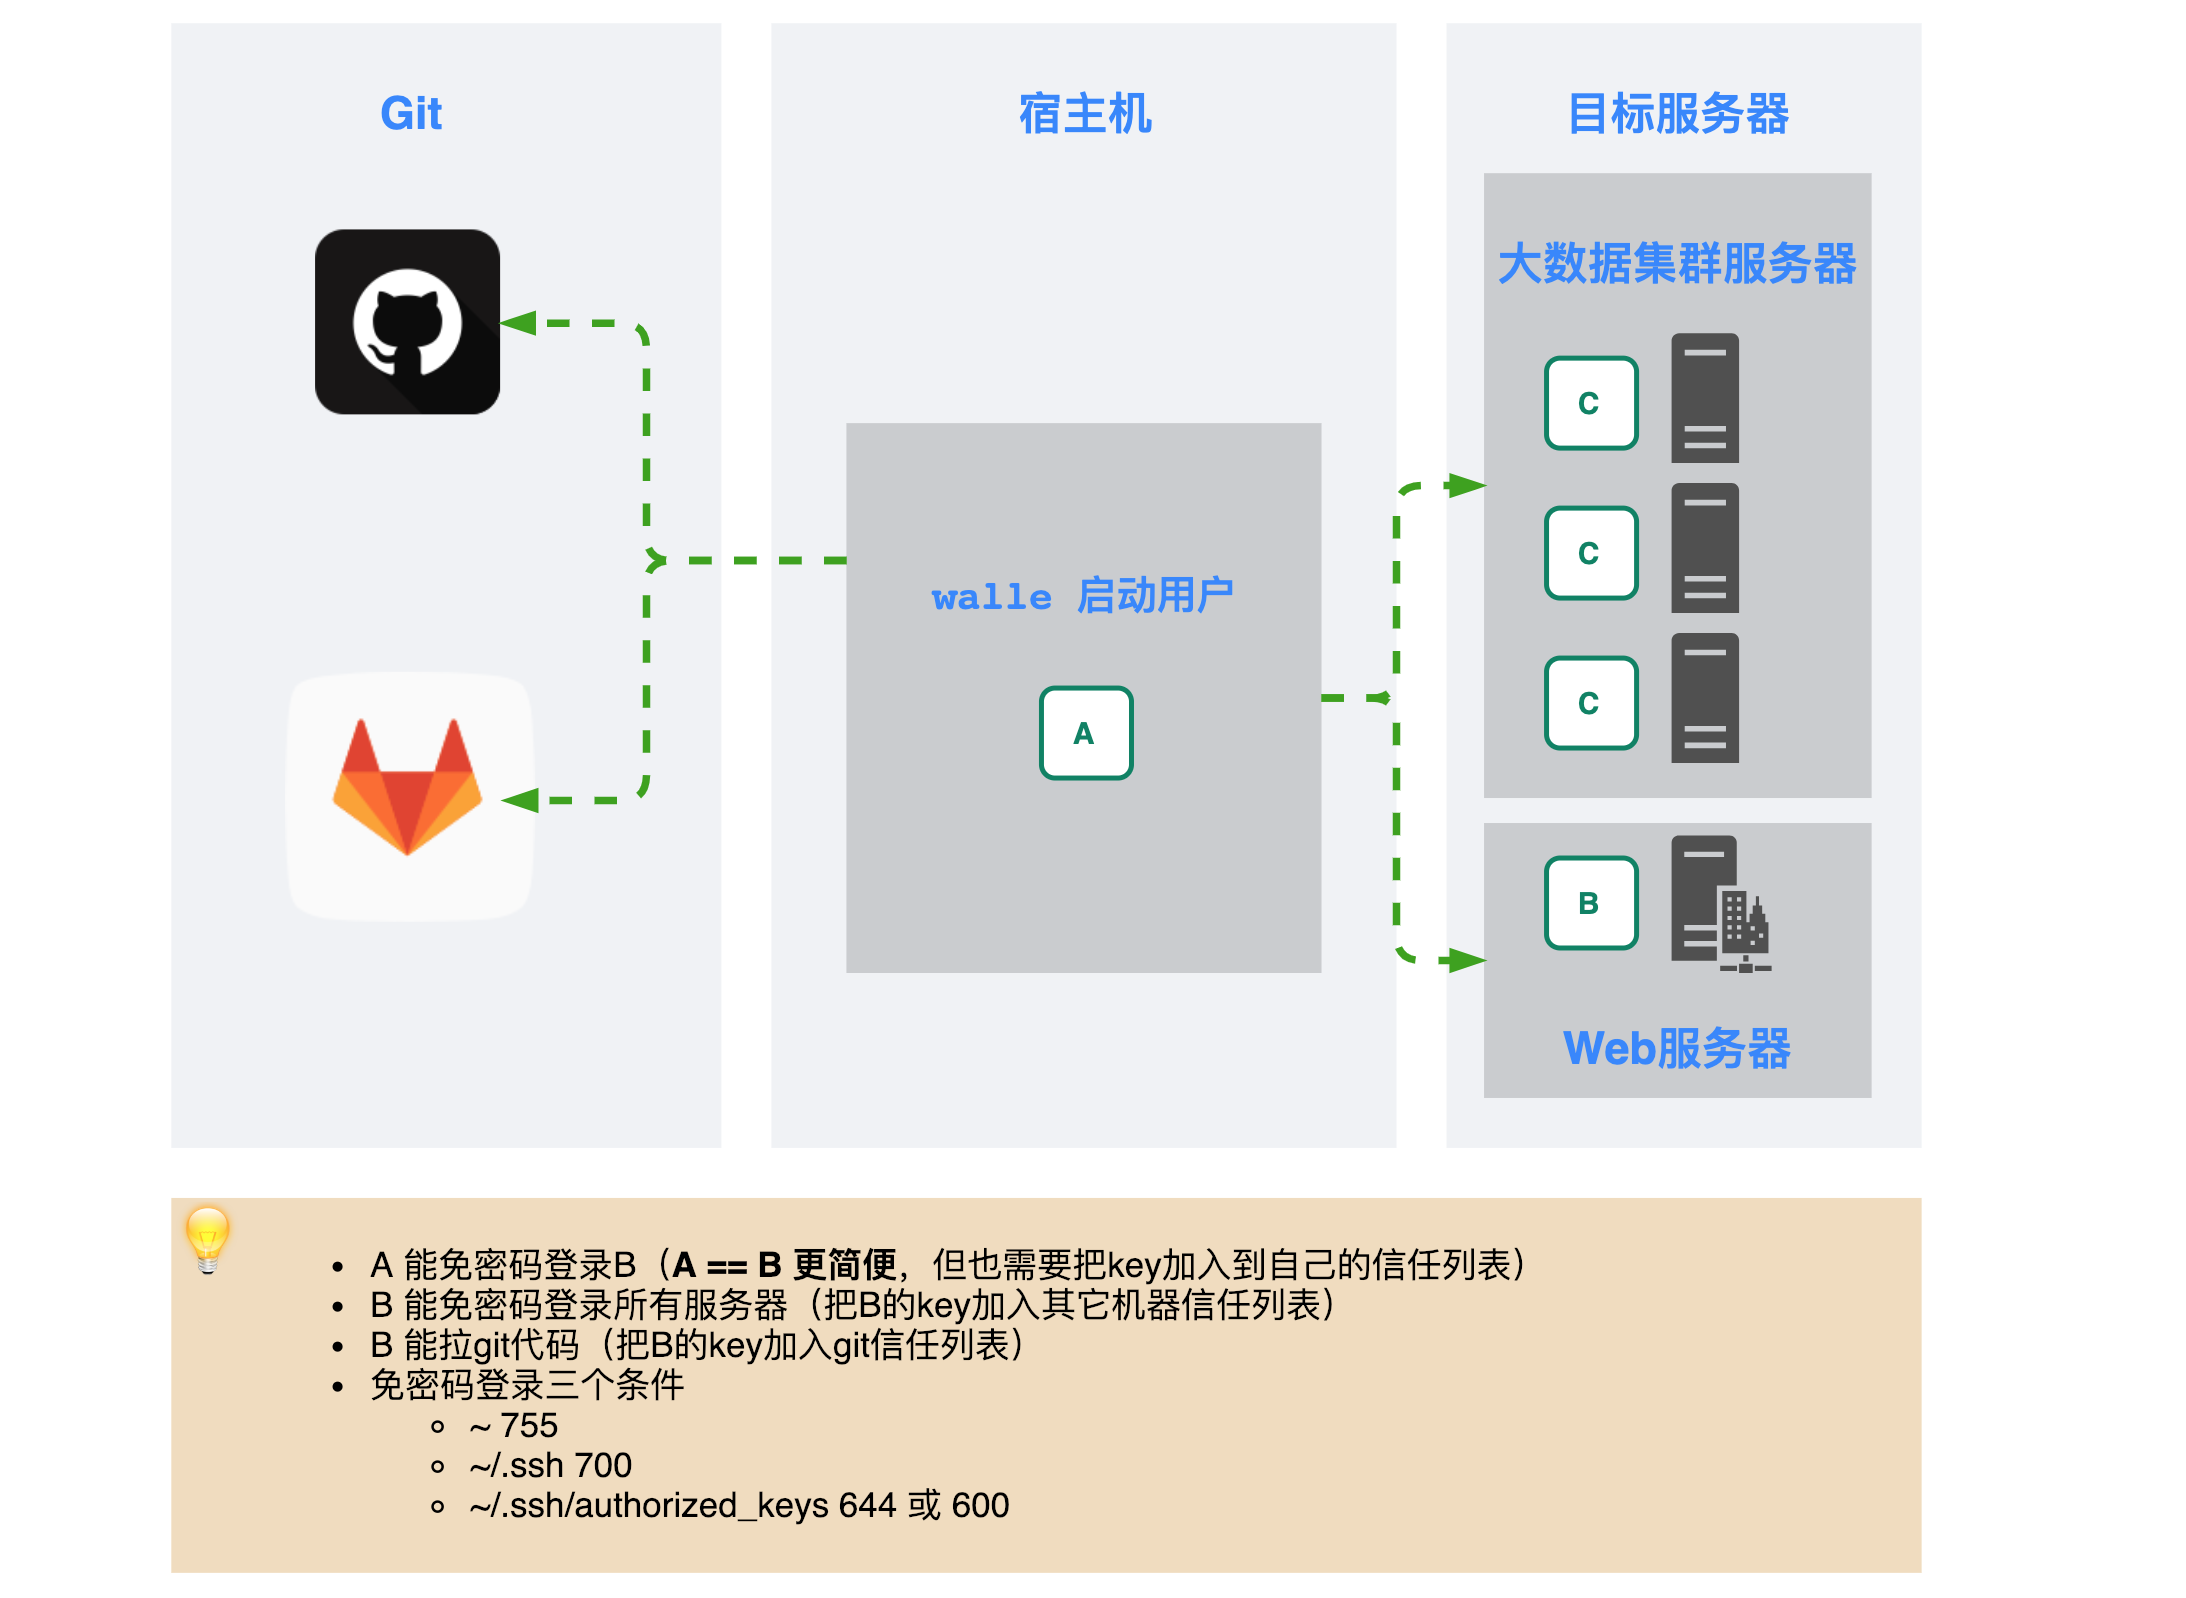
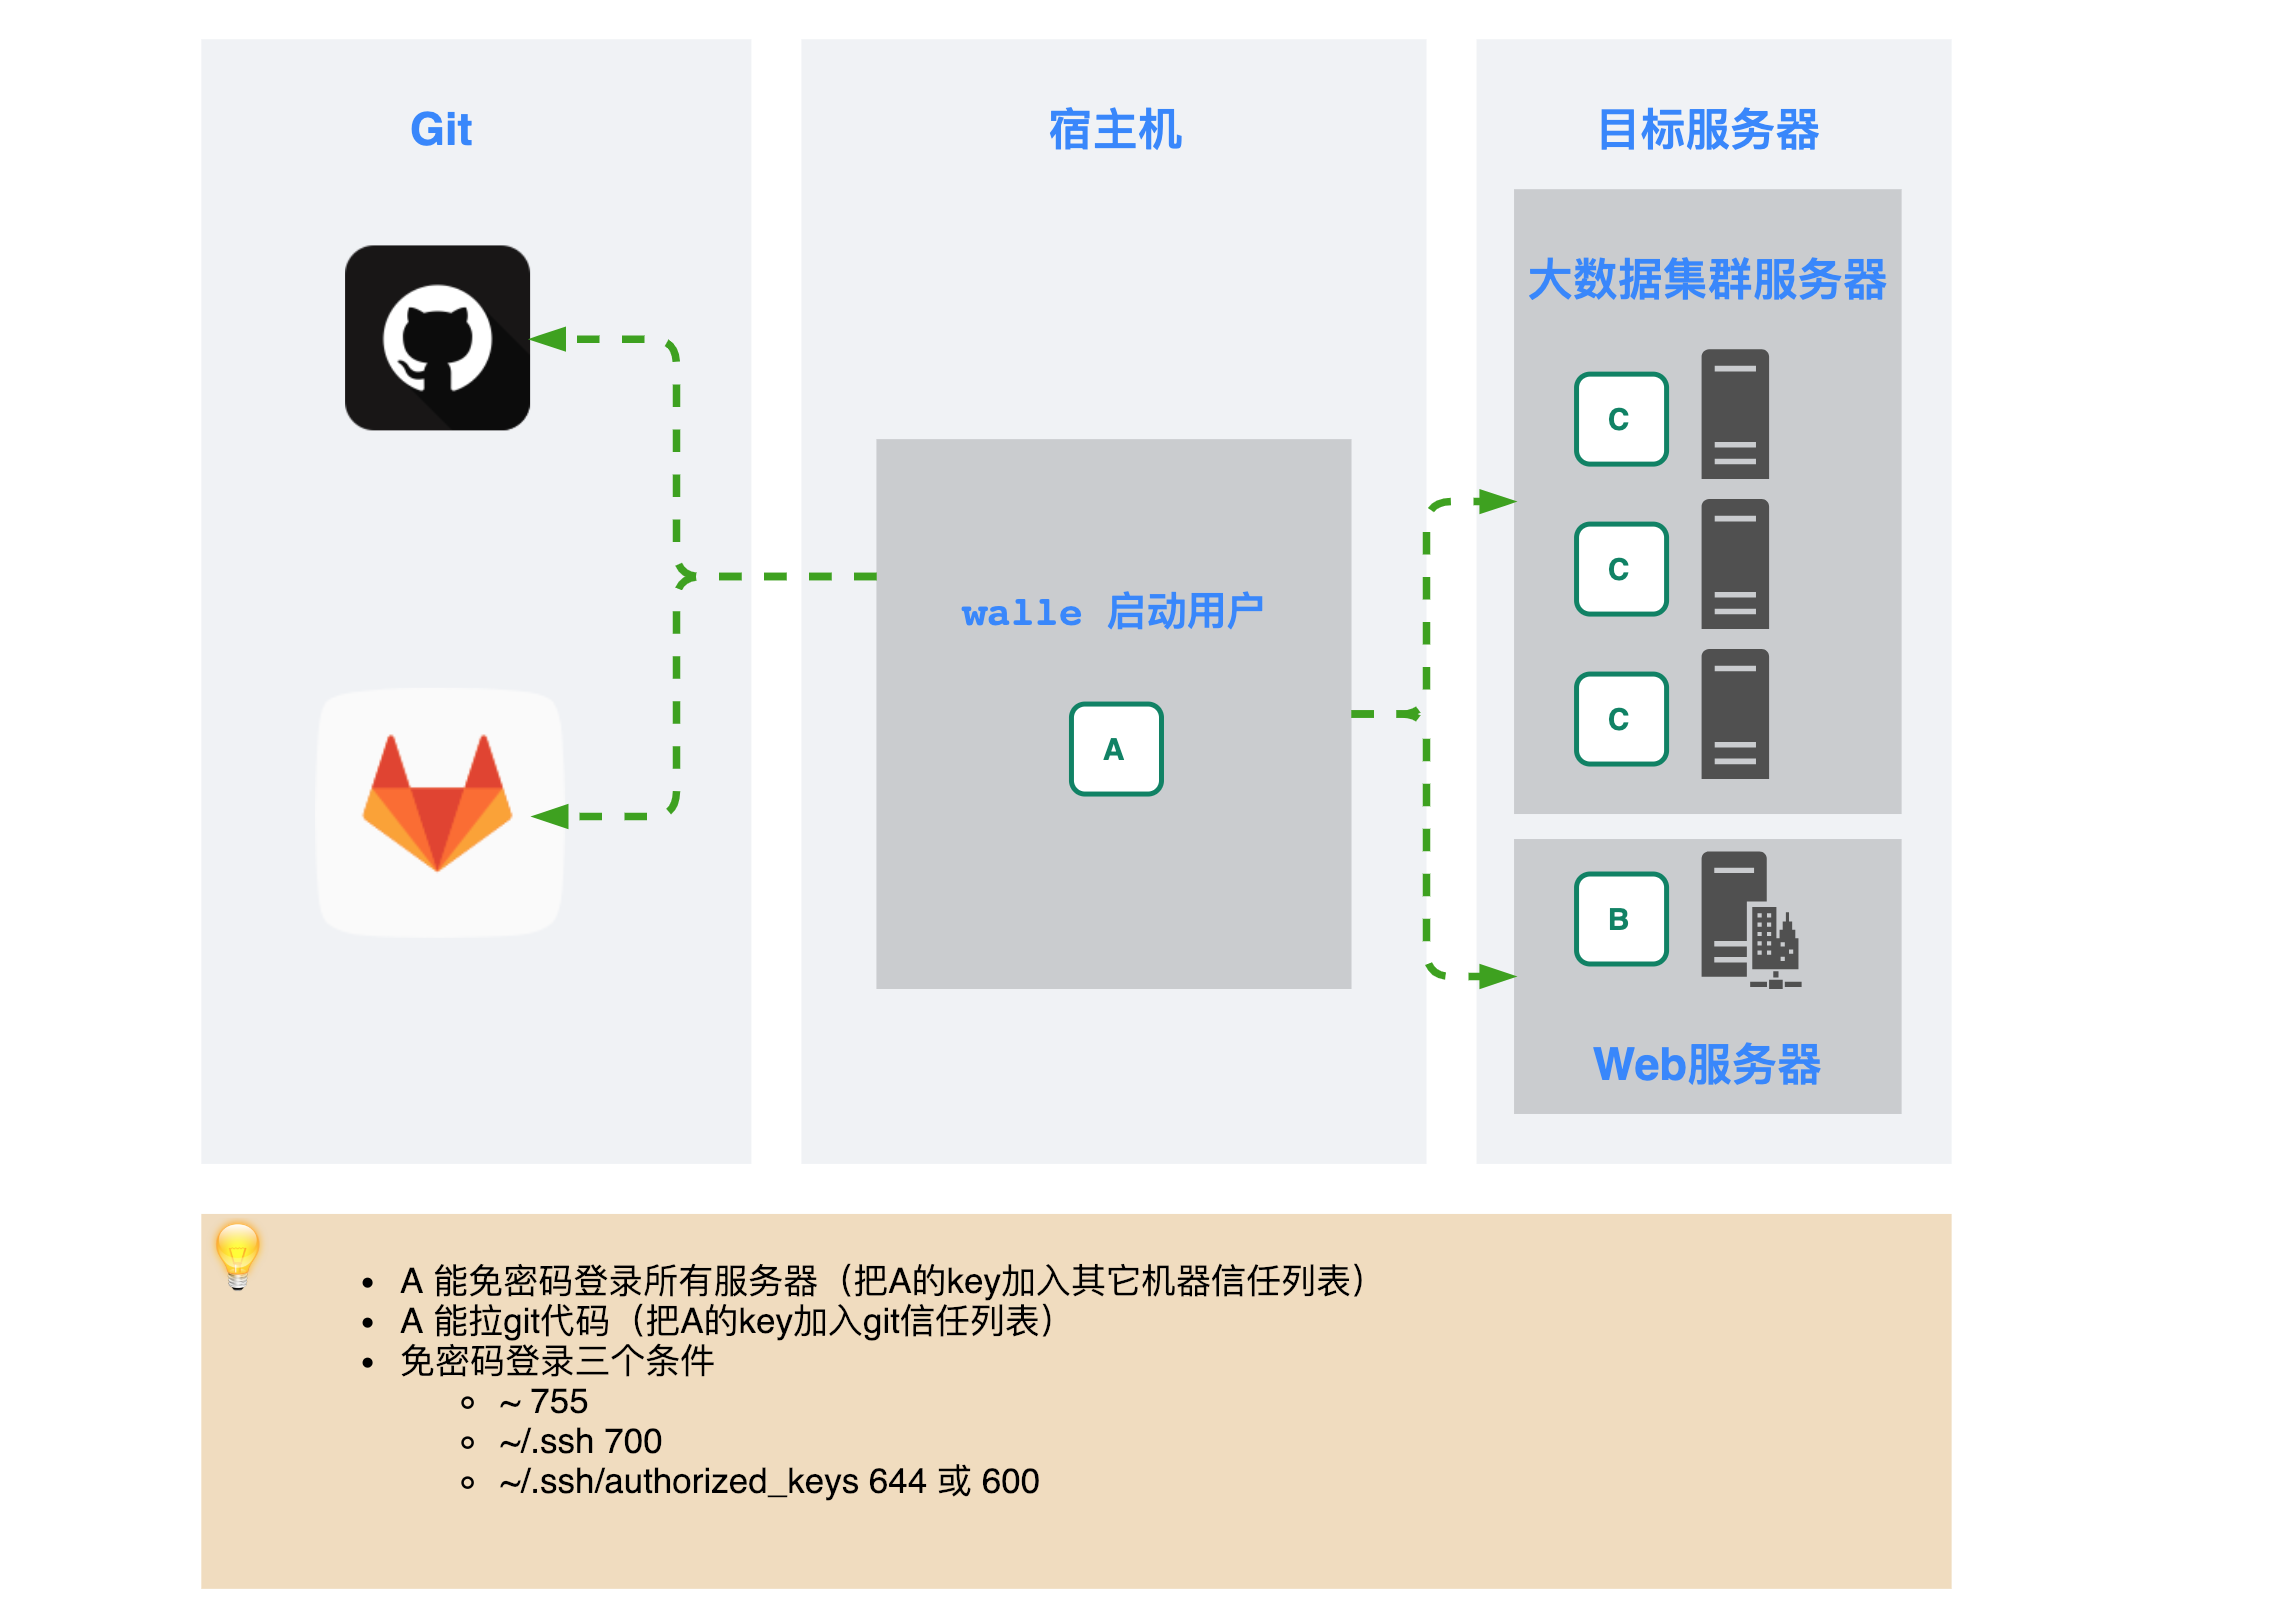
add

diff --git a/walle-web.io/docs/2/zh-cn/architecture.md b/walle-web.io/docs/2/zh-cn/architecture.md
@@ -18,9 +18,8 @@ title: 原理分析
 ![permission](/docs/2/zh-cn/static/user-relations.png)
 
 
-- A 能免密码登录B（**A == B 更简便**，但也需要把key加入到自己的信任列表
-- B 能密码登录所有服务器（把B的key加入其它机器信任列表）
-- B 能拉git代码（把B的key加入git信任列表）
+- A 能密码登录所有服务器（把A的key加入其它机器信任列表）
+- A 能拉git代码（把A的key加入git信任列表）
 - 免密码登录三个条件
   - ~ 755
   - ~/.ssh 700
